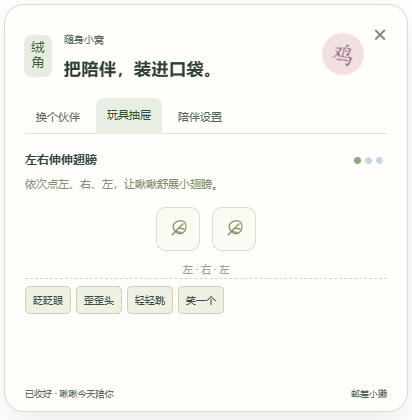
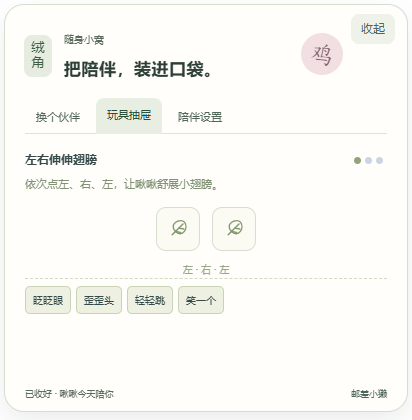
Fix Lark following controls and collapse pet settings

Changed region(s): [[0.7282, 0.031, 0.932, 0.1857]]

diff --git a/ui/desktop.html b/ui/desktop.html
@@ -1,6 +1,6 @@
 <!doctype html><html lang="zh-CN"><head>
 <meta charset="utf-8"><meta name="viewport" content="width=device-width,initial-scale=1"><meta name="color-scheme" content="light">
-<title>绒角 · 随身小窝</title><link rel="stylesheet" href="zodiac.css?v=2"><link rel="stylesheet" href="desktop-nest.css?v=27"><script type="module" src="desktop-nest.mjs?v=25"></script>
+<title>绒角 · 随身小窝</title><link rel="stylesheet" href="zodiac.css?v=2"><link rel="stylesheet" href="desktop-nest.css?v=28"><script type="module" src="desktop-nest.mjs?v=28"></script>
 </head><body class="desktop-nest"><svg width="0" height="0" aria-hidden="true" style="position:absolute"><defs><filter id="desktop-alpha-clean" color-interpolation-filters="sRGB"><feComponentTransfer><feFuncA type="table" tableValues="0 0 .35 .7 1 1"/></feComponentTransfer></filter></defs></svg>
 <header class="app-header"><a class="brand" href="/">绒角 <span>MofuCorner</span></a><span class="header-label">十二生肖陪伴小剧场</span><nav><button id="motion-toggle" type="button" aria-pressed="true">小动作已开启</button><a href="/">回到桌宠小屋</a></nav></header>
 <main><div class="page-intro"><div><p class="intro-kicker">有一点脾气，也有很多可爱。</p><h1>今天，和谁待一会儿？</h1></div><p>摸摸它，陪它玩，或者一起放空。<br>每一个小伙伴，都会用自己的方式回应你。</p></div>
@@ -11,4 +11,4 @@
 <div class="mobile-actions" aria-label="快速互动"><button type="button" data-quick="touch">摸摸</button><button type="button" data-quick="play">陪它玩</button><button type="button" data-quick="rest">休息</button></div><div class="play-tray" id="play-tray"></div></section>
 <aside class="companion-panel"><span class="species" id="species"></span><h2 id="name"></h2><p class="trait" id="trait"></p><p class="personality" id="personality"></p><div class="actions" aria-label="和小伙伴互动"><button id="touch-action" type="button" class="primary"></button><button id="play-action" type="button"></button><button id="rest-action" type="button"></button></div><div class="memory"><div><span class="memory-icon" aria-hidden="true"></span><b>它记得的小事</b></div><p id="memory-text"></p><span class="memory-count" id="memory-count"></span></div><button id="details-toggle" class="details-toggle" type="button" aria-expanded="false" aria-controls="design-details">看看它的模样与配色 <span aria-hidden="true">＋</span></button><div id="design-details" hidden><p id="shape"></p><div id="palette" class="palette"></div></div></aside>
 </div><footer><p>十二生肖已接入桌面小窝，支持选择、连续动作与本机保存。</p><a href="assets/zodiac-lineup-v1.png" download="paperpal-zodiac-lineup-v1.png">收藏全员形象</a></footer>
-</main><button id="nest-toggle" type="button" aria-expanded="false" aria-controls="nest-sheet"><span>小窝</span><b aria-hidden="true">⌑</b></button><span id="drag-tag">拖动搬家</span><section id="nest-sheet" hidden><div class="nest-cover"><span class="nest-mark">绒角</span><div><small>随身小窝</small><h2>把陪伴，装进口袋。</h2></div><button id="nest-close" aria-label="收起小窝" type="button">×</button><span class="nest-stamp" id="nest-stamp">龙</span></div><nav class="nest-tabs" aria-label="小窝抽屉"><button data-drawer="friends" type="button" aria-selected="true">换个伙伴</button><button data-drawer="toys" type="button" aria-selected="false">玩具抽屉</button><button data-drawer="settings" type="button" aria-selected="false">陪伴设置</button></nav><div id="nest-body"><section id="drawer-friends"></section><section id="drawer-toys" hidden></section><section id="drawer-settings" hidden><form id="native-settings"><label>小名<input id="native-name" maxlength="16" required></label><label>身量 <output id="native-size-label">60%</output><input id="native-size" type="range" min="55" max="130" value="60"></label><label>相处节奏<select id="native-personality"><option value="gentle">温柔陪伴</option><option value="playful">有一点淘气</option><option value="quiet">安静守候</option></select></label><div class="work-tabs" aria-label="办公模式"><button data-work="available" type="button">陪伴</button><button data-work="focus" type="button">专注25分</button><button data-work="meeting" type="button">会议</button><button data-work="rest" type="button">休息</button></div><button id="native-follow" type="button">跟随飞书 / Lark</button><p id="native-status" role="status"></p><button id="native-save" type="submit">收好这份设置</button></form></section></div><div class="nest-foot"><span id="native-saved">只在这台电脑，慢慢熟悉。</span><button id="native-classic" type="button">邮差小獭</button></div></section></body></html>
+</main><button id="nest-toggle" type="button" aria-expanded="false" aria-controls="nest-sheet"><span>小窝</span><b aria-hidden="true">⌑</b></button><span id="drag-tag">拖动搬家</span><section id="nest-sheet" hidden><div class="nest-cover"><span class="nest-mark">绒角</span><div><small>随身小窝</small><h2>把陪伴，装进口袋。</h2></div><button id="nest-close" aria-label="收起小窝" type="button">收起</button><span class="nest-stamp" id="nest-stamp">龙</span></div><nav class="nest-tabs" aria-label="小窝抽屉"><button data-drawer="friends" type="button" aria-selected="true">换个伙伴</button><button data-drawer="toys" type="button" aria-selected="false">玩具抽屉</button><button data-drawer="settings" type="button" aria-selected="false">陪伴设置</button></nav><div id="nest-body"><section id="drawer-friends"></section><section id="drawer-toys" hidden></section><section id="drawer-settings" hidden><form id="native-settings"><label>小名<input id="native-name" maxlength="16" required></label><label>身量 <output id="native-size-label">60%</output><input id="native-size" type="range" min="55" max="130" value="60"></label><label>相处节奏<select id="native-personality"><option value="gentle">温柔陪伴</option><option value="playful">有一点淘气</option><option value="quiet">安静守候</option></select></label><div class="work-tabs" aria-label="办公模式"><button data-work="available" type="button">陪伴</button><button data-work="focus" type="button">专注25分</button><button data-work="meeting" type="button">会议</button><button data-work="rest" type="button">休息</button></div><button id="native-follow" type="button">跟随飞书 / Lark</button><p id="native-status" role="status"></p><button id="native-save" type="submit">保存并收起</button></form></section></div><div class="nest-foot"><span id="native-saved">只在这台电脑，慢慢熟悉。</span><button id="native-classic" type="button">邮差小獭</button></div></section></body></html>

diff --git a/ui/desktop-nest.css b/ui/desktop-nest.css
@@ -14,3 +14,5 @@
 
 /* MofuCorner 0.6 — quiet paper surfaces, one sage action. */
 #nest-sheet{border-color:#d4ddd0;border-radius:20px;background:#fffefa;box-shadow:0 10px 28px #22332918}#nest-sheet::before{display:none}.nest-cover{background:none}.nest-cover h2{font-family:"Microsoft YaHei UI","PingFang SC",sans-serif;font-size:17px;color:#2c3e35}.nest-cover small{letter-spacing:0;color:#596b5c}.nest-mark{border:0;background:#e6ede0;border-radius:8px;color:#405d48}.nest-stamp{background:#f1dcdf;border:0;color:#77525e}.nest-stamp::after{display:none}.nest-tabs{border-color:#dce3d7}.nest-tabs button{background:transparent;border:0;border-radius:8px 8px 0 0;color:#526657}.nest-tabs button:nth-child(2),.nest-tabs button:nth-child(3){background:transparent;color:#526657}.nest-tabs button[aria-selected=true]{background:#e8efe2;color:#2c4d36}.friend,.friend:nth-child(2n),.friend:nth-child(3n),.friend[aria-pressed=true]{transform:none}.friend::before{box-shadow:none;background:#f1f3eb;border-color:transparent;border-radius:10px}.friend[aria-pressed=true]::before{background:#dfebd8;border-color:#adc3a2}.actions button,.toy-button{box-shadow:none;border-color:#d6dfd0;border-radius:10px}.actions .primary{background:#355846;border-color:#355846;color:white;box-shadow:none}.actions .primary svg{color:white}.nest-foot{border-top:0;color:#596b5c}.nest-foot button{color:#526657}#native-name{background:#f4f6ef;border:1px solid #d3dccd;border-radius:6px}.speech{box-shadow:0 3px 12px #23372c12}#drag-tag{border-style:solid;border-color:#d5dfce;background:#fffefa}
+
+#nest-close{width:44px;font-size:12px;line-height:28px;border-radius:8px;background:#eef2e9;color:#526657}.nest-stamp{right:64px}#native-follow[aria-pressed=true]{background:#e5eedf;border-style:solid;border-color:#a6ba99;color:#45603e}.pet:focus:not(:focus-visible){outline:none}

diff --git a/README.md b/README.md
@@ -140,7 +140,7 @@ node setup.mjs
 
 1. 在“换个伙伴”中选择生肖，立即保存。
 2. 进入“陪伴设置”，填写 1–16 字小名，选择 **55%–130%** 身量，以及温柔 / 淘气 / 安静三种相处节奏。
-3. 点击 **收好这份设置**，重启后会恢复。
+3. 点击 **保存并收起**，面板会收起；重启后会恢复设置。
 4. 收起小窝，让它待在桌面角落；拖动宠物下方的名字标签即可搬家。
 5. 需要安静时，在陪伴设置中选择专注、会议或休息。**这些是绒角本地模式，不会改变飞书账号状态。**
 
@@ -157,7 +157,7 @@ node setup.mjs
 默认先作为独立桌宠运行。想让它贴着客户端窗外陪伴时：
 
 1. 打开飞书或 Lark 桌面客户端。
-2. 从托盘 / 菜单栏选择 **贴在飞书 / Lark 窗口外侧**；也可在“陪伴设置”中切换。
+2. 从托盘 / 菜单栏选择 **贴在飞书 / Lark 窗口外侧**；也可在“陪伴设置”中点击 **跟随飞书 / Lark · 未开启**，开启后面板自动收起。
 3. 保持客户端处于前台，并给右侧或下方留一点空间。
 
 | 客户端窗口状态 | 宠物的行为 |
@@ -280,7 +280,7 @@ npm run package:source
 ```
 
 - `docs:screenshots` 用临时配置启动隐藏 Electron 窗口，走真实 IPC 与界面操作，生成本文的小窝截图、生肖阵容和动作关键帧；不会修改你的 `.local/`。
-- `package:source` 输出 `dist/mofu-corner-0.6.1-source.zip` 与 SHA-256，不包含依赖、本机数据或历史设计稿。
+- `package:source` 输出 `dist/mofu-corner-0.6.2-source.zip` 与 SHA-256，不包含依赖、本机数据或历史设计稿。
 - 三平台检查与源码包可在 [GitHub Actions](https://github.com/dengjihui1/mofu-corner/actions) 查看。CI 的合成窗口定位不等同于真实飞书客户端人工验收。
 
 | 目录 | 内容 |

diff --git a/CHANGELOG.md b/CHANGELOG.md
@@ -1,5 +1,12 @@
 # Changelog
 
+## 0.6.2
+
+- 保存设置和开启窗口跟随后自动收起小窝，增加明确的收起按钮与跟随开关状态。
+- Windows 缓存进程发现，窗口位置采样缩短至 80ms，改善拖动跟随响应。
+- 切换跟随立即保存偏好，避免异常退出后恢复旧状态。
+- 补充保存收起、开启跟随和连续移动窗口的原生回归检查。
+
 ## 0.6.1
 
 - 项目更名为绒角 MofuCorner，保留 PaperPal 数据与旧启动入口兼容。
